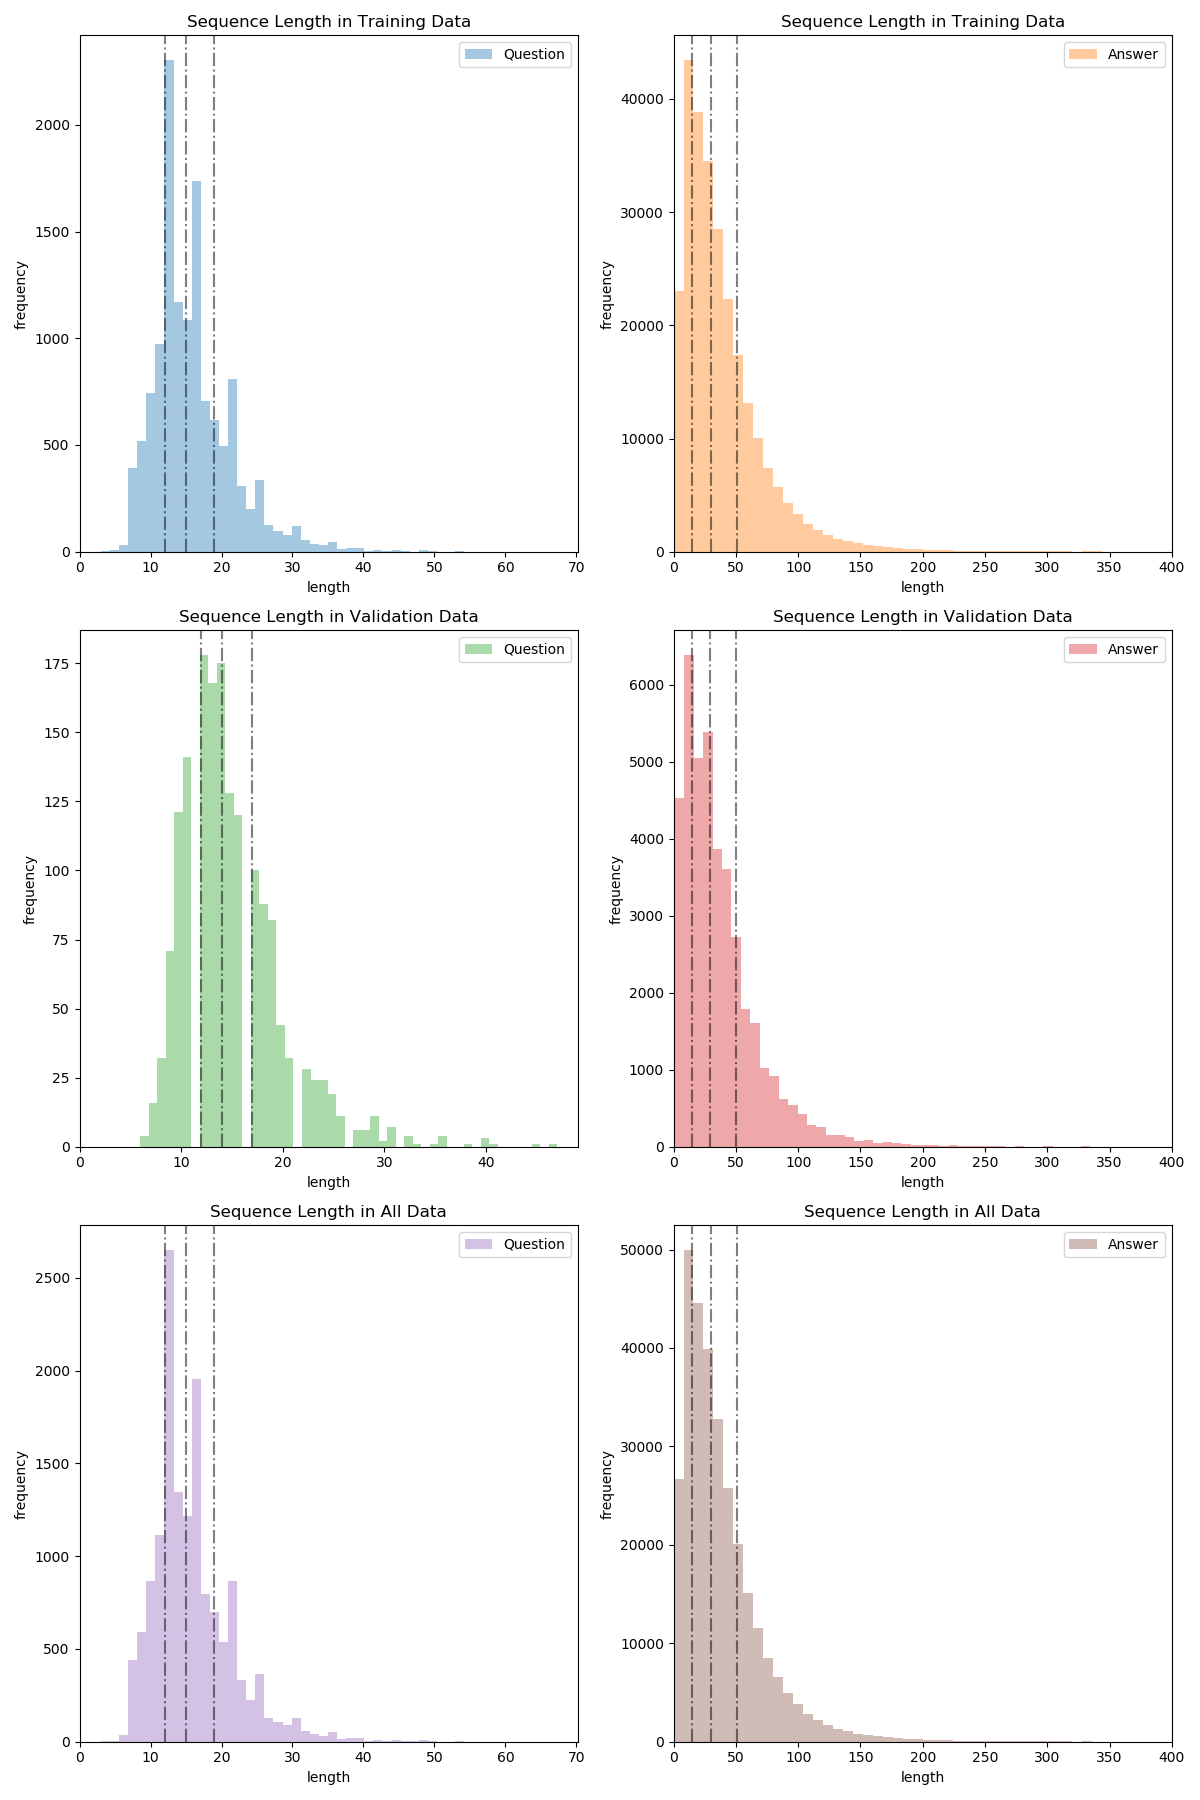
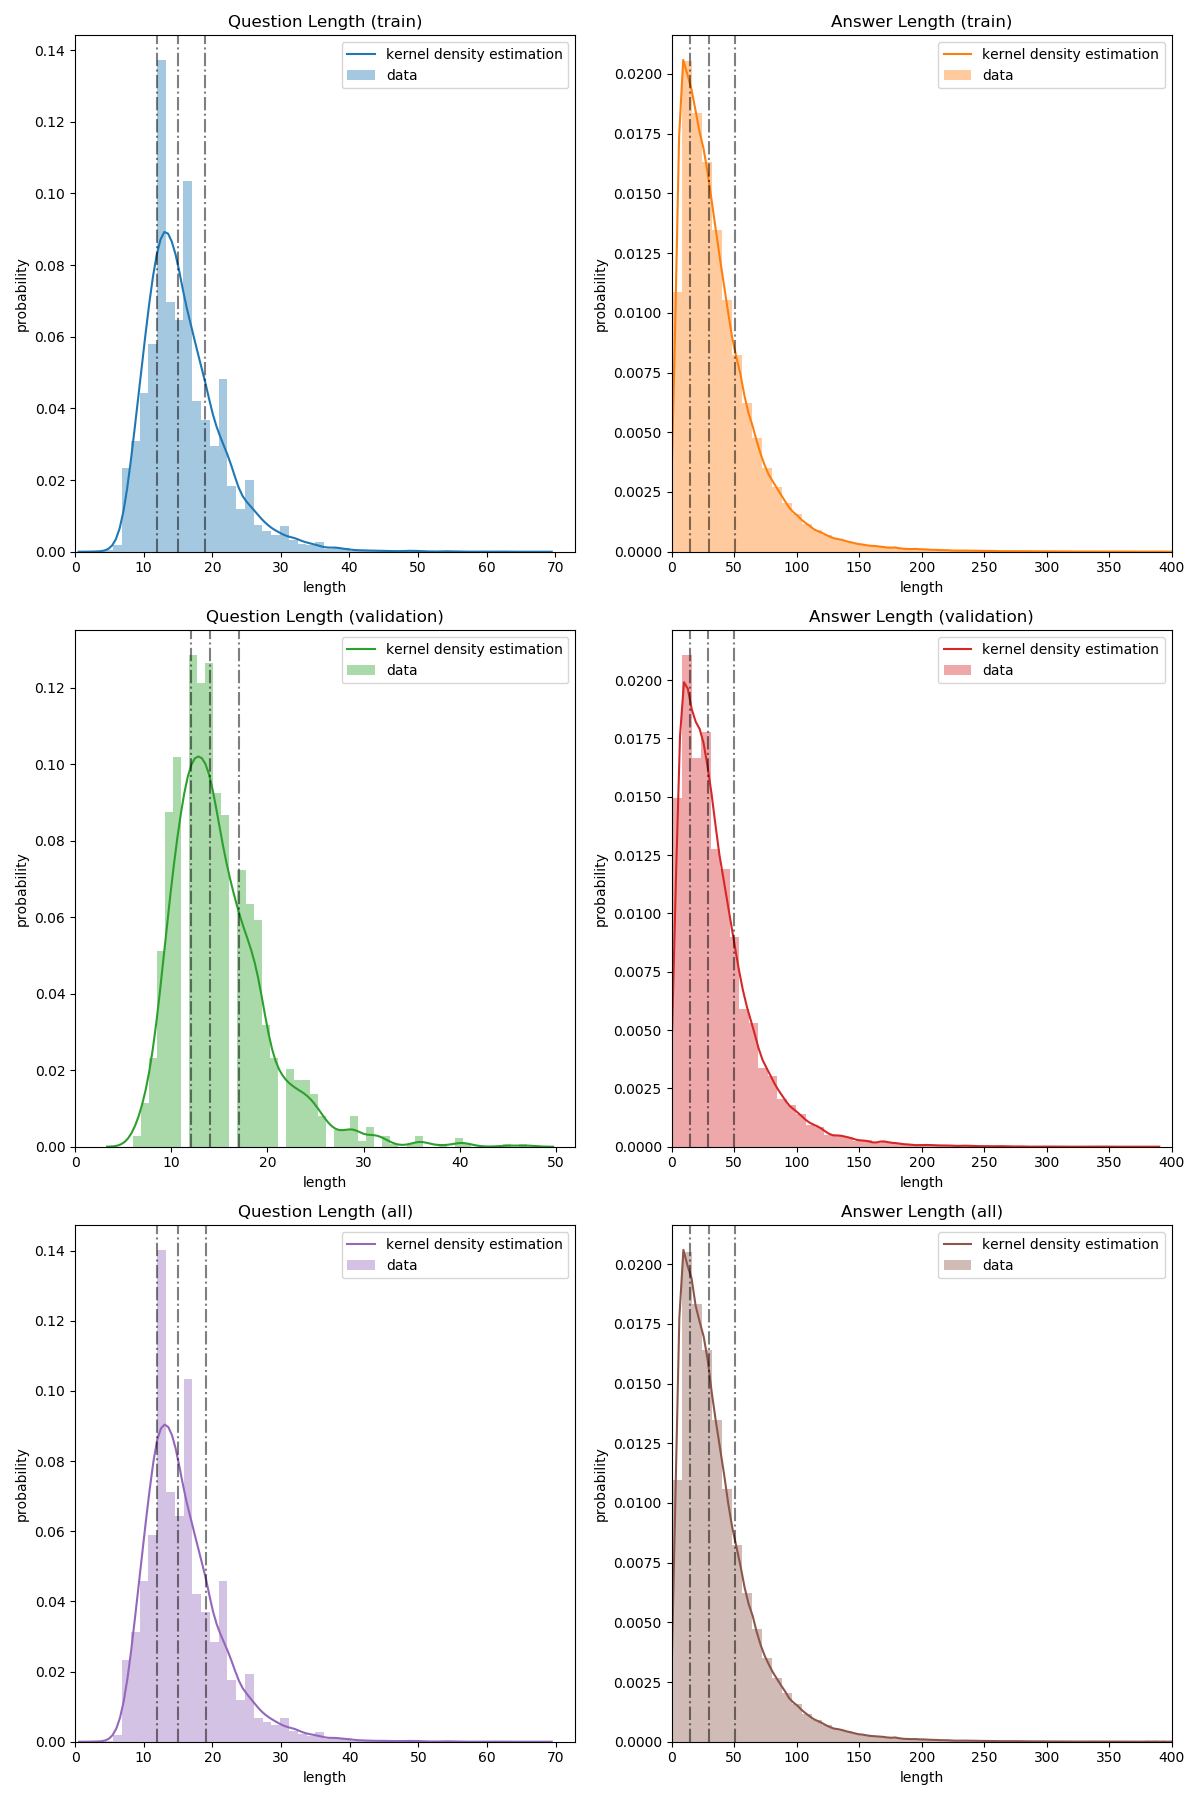
rewrote DataSet.py

diff --git a/DataSet.py b/DataSet.py
@@ -19,6 +19,10 @@ def quest_ans_label_generator(dataset):
             yield split
 
 
+# add alias
+data_generator = quest_ans_label_generator
+
+
 def draw_data_distribution():
     def get_seq_len(dataset):
         quest_seq_len = []
@@ -31,18 +35,23 @@ def draw_data_distribution():
             ans_seq_len.append(len(ans))
         return np.array(quest_seq_len, dtype = np.int32), np.array(ans_seq_len, dtype = np.int32)
     
-    def plot_dist(quest_seq_len, ans_seq_len, quest_ax, ans_ax, title):
-        sns.distplot(quest_seq_len, color = next(color)['color'], kde = False, label = 'Question', ax = quest_ax)
-        sns.distplot(ans_seq_len[ans_seq_len <= 400], color = next(color)['color'], kde = False, label = 'Answer', ax = ans_ax)
+    def plot_dist(dataset, quest_seq_len, ans_seq_len, quest_ax, ans_ax):
+        sns.distplot(quest_seq_len, color = next(color)['color'],
+                     kde = True, kde_kws = {'label': 'kernel density estimation'},
+                     label = 'data', ax = quest_ax)
+        sns.distplot(ans_seq_len[ans_seq_len <= 400], color = next(color)['color'],
+                     kde = True, kde_kws = {'label': 'kernel density estimation'},
+                     label = 'data', ax = ans_ax)
         for q in (0.25, 0.50, 0.75):
             quest_ax.axvline(x = np.quantile(quest_seq_len, q), linestyle = '-.', color = 'black', alpha = 0.5)
             ans_ax.axvline(x = np.quantile(ans_seq_len, q), linestyle = '-.', color = 'black', alpha = 0.5)
         quest_ax.set_xlim(left = 0)
         ans_ax.set_xlim(left = 0, right = 400)
+        quest_ax.set_title(label = f'Question Length ({dataset})')
+        ans_ax.set_title(label = f'Answer Length ({dataset})')
         for ax in (quest_ax, ans_ax):
             ax.set_xlabel(xlabel = 'length')
-            ax.set_ylabel(ylabel = 'frequency')
-            ax.set_title(label = title)
+            ax.set_ylabel(ylabel = 'probability')
             ax.legend()
     
     import numpy as np
@@ -56,20 +65,20 @@ def draw_data_distribution():
     color = plt.rcParamsDefault['axes.prop_cycle']
     color = iter(color)
     
-    plot_dist(quest_seq_len = train_quest_seq_len, ans_seq_len = train_ans_seq_len,
-              quest_ax = axes[0, 0], ans_ax = axes[0, 1],
-              title = 'Sequence Length in Training Data')
+    plot_dist(dataset = 'train',
+              quest_seq_len = train_quest_seq_len, ans_seq_len = train_ans_seq_len,
+              quest_ax = axes[0, 0], ans_ax = axes[0, 1])
     
-    plot_dist(quest_seq_len = valid_quest_seq_len, ans_seq_len = valid_ans_seq_len,
-              quest_ax = axes[1, 0], ans_ax = axes[1, 1],
-              title = 'Sequence Length in Validation Data')
+    plot_dist(dataset = 'validation',
+              quest_seq_len = valid_quest_seq_len, ans_seq_len = valid_ans_seq_len,
+              quest_ax = axes[1, 0], ans_ax = axes[1, 1])
     
     quest_seq_len = np.concatenate([train_quest_seq_len, valid_quest_seq_len])
     ans_seq_len = np.concatenate([train_ans_seq_len, valid_ans_seq_len])
     
-    plot_dist(quest_seq_len = quest_seq_len, ans_seq_len = ans_seq_len,
-              quest_ax = axes[2, 0], ans_ax = axes[2, 1],
-              title = 'Sequence Length in All Data')
+    plot_dist(dataset = 'all',
+              quest_seq_len = quest_seq_len, ans_seq_len = ans_seq_len,
+              quest_ax = axes[2, 0], ans_ax = axes[2, 1])
     
     fig.tight_layout()
     fig.savefig(fname = './data_dist.png')
